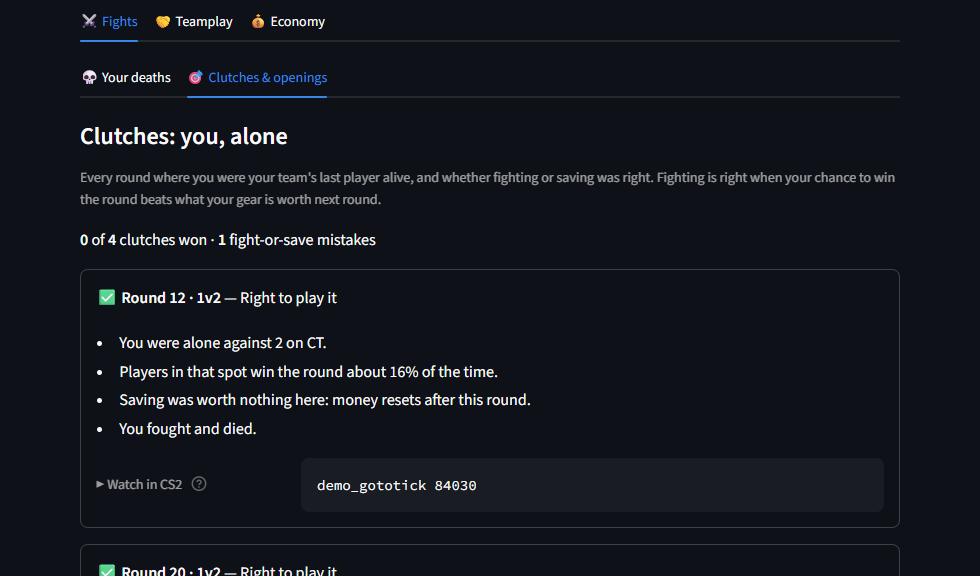
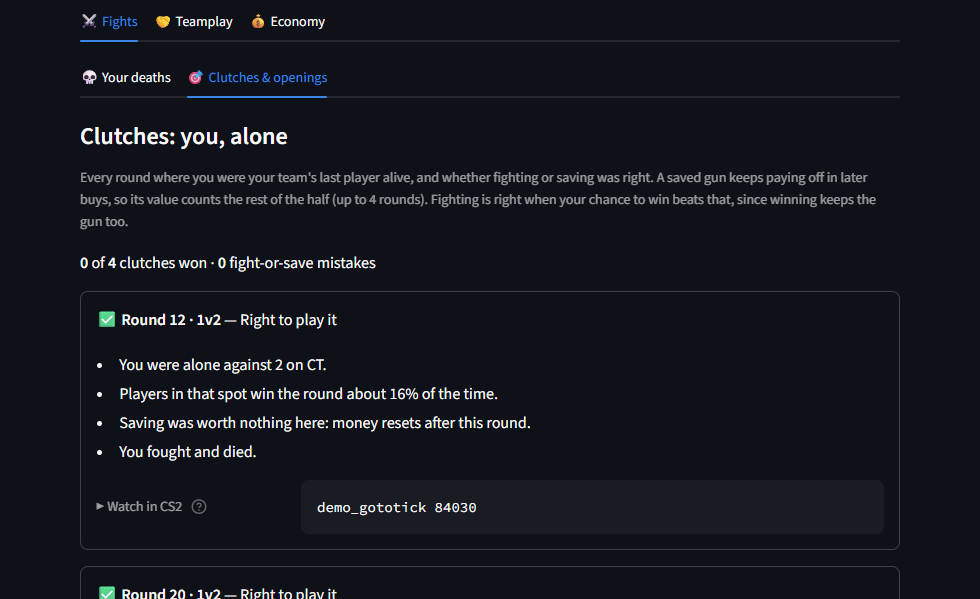
Value saved guns over the rest of the half, not just the next round
A saved gun keeps paying off: the money not spent replacing it carries
into later buys. The clutch verdict now simulates the economy up to 4
rounds ahead with and without the gun (grade.rounds_won_from) from both
teams' real money, and fighting is right when the win chance beats
S / (1 + S), since winning keeps the gun too. On the current pool,
"should have saved" rises from 61 to 99 clutches (mostly 1v3+), and
1v1/1v2 stay mostly "right to play it". Cards explain the threshold.
README and screenshots updated.

diff --git a/src/cs2_insights/fights.py b/src/cs2_insights/fights.py
@@ -263,16 +263,24 @@ def clutches(deaths: pd.DataFrame, player_rounds: pd.DataFrame, team_rounds: pd.
              slope: float | None = None) -> pd.DataFrame:
     """Every round where a player was their team's last one alive, with the outcome and a fight-or-save verdict.
 
-    Saving keeps your gear for next round; its value is the next round's win chance with that gear
-    minus without it (rates.equipment_win_rate on both teams' real next-round equipment).
+    A saved gun keeps paying off: the money not spent replacing it carries into later buys. So the
+    value of saving is the rounds the team is expected to win over the rest of the half (up to 4
+    rounds, grade.rounds_won_from) with the gun minus without it, starting from both teams' real
+    money next round. Fighting is right when your chance to win the round, which also keeps the
+    gun, beats that: p * (1 + S) > S, i.e. p > S / (1 + S).
     """
-    from cs2_insights.rates import DEFAULT_EQUIPMENT_SLOPE, equipment_win_rate
+    from cs2_insights.grade import LOOKAHEAD, Economy, rounds_won_from
+    from cs2_insights.rates import DEFAULT_EQUIPMENT_SLOPE
 
     slope = slope or DEFAULT_EQUIPMENT_SLOPE
-    columns = ["round", "tick", "player", "team", "side", "enemies", "plant_seconds", "outcome", "gear", "win_chance", "save_value", "verdict"]
+    columns = ["round", "tick", "player", "team", "side", "enemies", "plant_seconds", "outcome", "gear", "win_chance",
+               "save_value", "save_rounds", "verdict"]
     if deaths.empty:
         return pd.DataFrame(columns=columns)
     teams = team_rounds.set_index(["round", "team"])
+    from cs2_insights.grade import economy_states
+
+    states = economy_states(team_rounds).set_index(["round", "team"])
     equip = player_rounds.set_index(["round", "steamid"])["equip_value"].to_dict()
     rows = []
     for number, group in deaths.sort_values("tick").groupby("round"):
@@ -296,23 +304,34 @@ def clutches(deaths: pd.DataFrame, player_rounds: pd.DataFrame, team_rounds: pd.
             plant_seconds = getattr(d, "plant_seconds", None)  # missing on matches parsed before version 3
             p = clutch_win_chance(model, enemies, side, plant_seconds)
 
-            save_value = 0.0
+            save_value, save_rounds = 0.0, 0
             nxt, their_next = (number + 1, team), (number + 1, other)
-            if nxt in teams.index and their_next in teams.index and teams.at[nxt, "side"] == side:
-                players = max(int(teams.at[nxt, "players"]), 1)
-                mine, theirs = teams.at[nxt, "equip_value"] / players, teams.at[their_next, "equip_value"] / max(int(teams.at[their_next, "players"]), 1)
-                without = mine - gear / players if outcome == "Saved" else mine
-                save_value = equipment_win_rate(without + gear / players, theirs, slope) - equipment_win_rate(without, theirs, slope)
+            if nxt in states.index and their_next in states.index and teams.at[nxt, "side"] == side:
+                state, their_state = states.loc[nxt], states.loc[their_next]
+                mine, theirs = teams.loc[nxt], teams.loc[their_next]
+                # The real next round already includes the gun if it was saved; add or remove it for the other case.
+                carried = float(mine["start_equip_value"]) - (gear if outcome == "Saved" else 0)
+                team_next = {kept: Economy(float(state["start_money"]), carried + (gear if kept else 0), int(state["loss_counter"]), int(mine["players"]))
+                             for kept in (True, False)}
+                their_next_economy = Economy(float(their_state["start_money"]), float(theirs["start_equip_value"]),
+                                             int(their_state["loss_counter"]), int(theirs["players"]))
+                rounds_left = int(state["rounds_left_in_half"])
+                scores = (int(mine["score"]), int(mine["opponent_score"]))
+                value = {kept: rounds_won_from(slope, team_next[kept], their_next_economy, rounds_left, scores, number + 1 <= 24)
+                         for kept in (True, False)}
+                save_value, save_rounds = max(value[True] - value[False], 0.0), 1 + min(LOOKAHEAD, rounds_left)
 
+            # Fighting wins the round with chance p and keeps the gun if it does; saving keeps it for sure.
+            edge = p * (1 + save_value) - save_value
             if outcome == "Won":
                 verdict = CLUTCH_WON
             elif outcome == "Died":
-                verdict = CLUTCH_SHOULD_SAVE if p + CLUTCH_MARGIN < save_value else CLUTCH_PLAYED if p >= save_value else CLUTCH_CLOSE
+                verdict = CLUTCH_PLAYED if edge >= CLUTCH_MARGIN else CLUTCH_SHOULD_SAVE if edge <= -CLUTCH_MARGIN else CLUTCH_CLOSE
             else:
-                verdict = CLUTCH_SHOULD_PLAY if p > save_value + CLUTCH_MARGIN else CLUTCH_SAVED
+                verdict = CLUTCH_SHOULD_PLAY if edge >= CLUTCH_MARGIN else CLUTCH_SAVED
             rows.append({"round": int(number), "tick": int(d.tick), "player": player, "team": team, "side": side, "enemies": enemies,
                          "plant_seconds": plant_seconds, "outcome": outcome, "gear": gear, "win_chance": round(p, 3),
-                         "save_value": round(float(save_value), 3), "verdict": verdict})
+                         "save_value": round(float(save_value), 3), "save_rounds": save_rounds, "verdict": verdict})
     return pd.DataFrame(rows, columns=columns)
 
 

diff --git a/tests/test_fights.py b/tests/test_fights.py
@@ -126,20 +126,22 @@ def test_fit_recovers_trade_weights_and_falls_back_when_small():
     assert fit_fight_model(deaths, chances.iloc[:50], pd.DataFrame()) == FightModel()
 
 
-def _clutch_round(final_victim=None, a_won=False, next_equip=5_000):
-    """Round 1: team A loses a1-a4 one by one, leaving a5 against b1 and b2. Round 2: both teams buy."""
+def _clutch_round(final_victim=None, a_won=False, next_money=3_000, rounds=4):
+    """Round 1: team A loses a1-a4, leaving a5 alone against five. Later rounds of the same half follow.
+
+    Team A starts round 2 with `next_money` each in the bank; if a5 saved, his $4,700 rifle is carried in too.
+    """
     deaths = [_death(1, 100 + i, f"a{i}", "b1", team_alive=6 - i, enemies_alive=5) for i in range(1, 5)]
-    deaths.append(_death(1, 110, "b3", "a5", victim_team="B", team_alive=5, enemies_alive=1))
-    deaths.append(_death(1, 120, "b4", "a5", victim_team="B", team_alive=4, enemies_alive=1))
-    deaths.append(_death(1, 130, "b5", "a5", victim_team="B", team_alive=3, enemies_alive=1))
     if final_victim:
-        deaths.append(_death(1, 200, final_victim, "b1", team_alive=1, enemies_alive=2, victim_equip=4_700))
-    players = pd.DataFrame([{"round": r, "steamid": f"{t}{i}", "team": t, "equip_value": 4_700} for r in (1, 2) for t in "ab" for i in range(1, 6)])
-    players["team"] = players["team"].str.upper()
+        deaths.append(_death(1, 200, final_victim, "b1", team_alive=1, enemies_alive=5, victim_equip=4_700))
+    players = pd.DataFrame([{"round": r, "steamid": f"{t}{i}", "team": t.upper(), "equip_value": 4_700}
+                            for r in range(1, rounds + 1) for t in "ab" for i in range(1, 6)])
+    saved_gun = 4_700 if not final_victim and not a_won else 0
     team_rounds = pd.DataFrame([
-        {"round": r, "team": t, "side": "CT" if t == "A" else "T", "won": (a_won if t == "A" else not a_won),
-         "players": 5, "equip_value": next_equip * 5 if r == 2 and t == "A" else 25_000}
-        for r in (1, 2) for t in "AB"
+        {"round": r, "team": t, "side": "CT" if t == "A" else "T", "won": (a_won if t == "A" else not a_won) if r == 1 else t == "B",
+         "players": 5, "equip_value": 25_000, "bank": (next_money * 5 if t == "A" and r == 2 else 20_000), "cash_spent": 0,
+         "start_equip_value": (1_000 + saved_gun if t == "A" and r == 2 else 1_000), "score": 0, "opponent_score": r - 1 if t == "A" else 0}
+        for r in range(1, rounds + 1) for t in "AB"
     ])
     return pd.DataFrame(deaths), players, team_rounds
 
@@ -149,7 +151,8 @@ def test_clutch_is_found_with_outcome_and_verdict():
     assert won[["player", "enemies", "outcome", "verdict"]].values.tolist() == [["a5", 5, "Won", fights.CLUTCH_WON]]
     died = clutches(*_clutch_round(final_victim="a5"), MODEL).iloc[0]
     assert died["outcome"] == "Died" and died["gear"] == 4_700
-    assert died["save_value"] > 0  # round 2 is in the same half, so the rifle was worth something
+    assert died["save_value"] > 0 and died["save_rounds"] == 3  # rounds 2-4 are left in the half
+    assert died["verdict"] == fights.CLUTCH_SHOULD_SAVE  # 1v5: almost no chance, and the rifle was worth more
     saved = clutches(*_clutch_round(), MODEL).iloc[0]
     assert saved["outcome"] == "Saved" and saved["verdict"] in (fights.CLUTCH_SAVED, fights.CLUTCH_SHOULD_PLAY)
 
@@ -173,3 +176,14 @@ def test_opening_duels_are_the_first_kill_you_were_in():
     team_rounds = _team_rounds([1, 2, 3], [True, False, False])
     od = opening_duels(deaths, team_rounds, "me")
     assert od[["round", "won", "place", "side"]].values.tolist() == [[1, True, "Ramp", "CT"], [3, False, "Palace", "CT"]]
+
+
+def test_a_saved_gun_is_worth_more_when_the_team_is_poor():
+    rich = clutches(*_clutch_round(final_victim="a5", next_money=6_000), MODEL).iloc[0]["save_value"]
+    poor = clutches(*_clutch_round(final_victim="a5", next_money=2_500), MODEL).iloc[0]["save_value"]
+    assert poor > rich  # the rifle is what lets a poor team buy; a rich team buys anyway
+
+
+def test_saving_on_the_last_round_of_a_half_is_worth_nothing():
+    last = clutches(*_clutch_round(final_victim="a5", rounds=1), MODEL).iloc[0]
+    assert last["save_value"] == 0 and last["save_rounds"] == 0

diff --git a/src/cs2_insights/report.py b/src/cs2_insights/report.py
@@ -356,10 +356,16 @@ def clutch_reasons(clutch: pd.Series) -> list[str]:
         left = max(fights.BOMB_SECONDS - float(clutch["plant_seconds"]), 0)
         reasons.append(f"The bomb had been planted for {float(clutch['plant_seconds']):.0f}s: {left:.0f}s left on it.")
     reasons.append(f"Players in that spot win the round about {pct(clutch['win_chance'])} of the time.")
-    if clutch["save_value"] > 0:
-        reasons.append(f"Your ${int(clutch['gear']):,} of gear was worth about {clutch['save_value']:.2f} rounds next round.")
-    else:
+    if not clutch["save_rounds"]:
         reasons.append("Saving was worth nothing here: money resets after this round.")
+    elif clutch["save_value"] < 0.01:
+        reasons.append("Your team could buy the same next round with or without your gear, so keeping it changed little.")
+    else:
+        span = "next round" if clutch["save_rounds"] <= 1 else f"the next {int(clutch['save_rounds'])} rounds"
+        reasons.append(f"Keeping your ${int(clutch['gear']):,} of gear was worth about {clutch['save_value']:.2f} rounds over {span}: "
+                       "the money you don't spend replacing it carries into later buys.")
+        if clutch["outcome"] != "Won":
+            reasons.append(f"So fighting was worth it if you'd win more than {clutch['save_value'] / (1 + clutch['save_value']):.0%} of the time.")
     reasons.append({"Won": "You won it.", "Died": "You fought and died.", "Saved": "You hid and survived."}[clutch["outcome"]])
     return reasons
 

diff --git a/src/cs2_insights/grade.py b/src/cs2_insights/grade.py
@@ -109,6 +109,12 @@ def _play(slope: float, mine: Economy, theirs: Economy, my_buy: tuple, their_buy
     return total
 
 
+def rounds_won_from(slope: float, mine: Economy, theirs: Economy, rounds_left: int, scores: tuple[int, int],
+                    in_regulation: bool, depth: int = LOOKAHEAD) -> float:
+    """Expected rounds won from the start of a round, over it and up to `depth` more (stopping at half-time)."""
+    return _round(slope, mine, theirs, rounds_left, depth, scores, in_regulation)
+
+
 def _round(slope: float, mine: Economy, theirs: Economy, rounds_left: int, depth: int,
            scores: tuple[int, int], in_regulation: bool) -> float:
     """Expected rounds won from this round on, both teams playing the standard economy."""

diff --git a/app.py b/app.py
@@ -856,7 +856,8 @@ def render_clutches(report: Report) -> None:
     clutch = report.clutches
     st.markdown("#### Clutches: you, alone")
     st.caption("Every round where you were your team's last player alive, and whether fighting or saving was right. "
-               "Fighting is right when your chance to win the round beats what your gear is worth next round.")
+               "A saved gun keeps paying off in later buys, so its value counts the rest of the half (up to 4 rounds). "
+               "Fighting is right when your chance to win beats that, since winning keeps the gun too.")
     if clutch.empty:
         st.write("You were never your team's last player alive this match.")
     else:

diff --git a/README.md b/README.md
@@ -29,7 +29,7 @@ Real output from real matches. Player names are replaced with stand-ins.
 
 ![Utility tab](docs/screenshots/utility.png)
 
-**Clutches.** Every round you were last alive: was fighting or saving right, given your chance to win, the bomb timer and what your gear was worth next round?
+**Clutches.** Every round you were last alive: was fighting or saving right, given your chance to win, the bomb timer and what your gear was worth over the next few rounds?
 
 ![Clutches tab](docs/screenshots/clutches.png)
 
@@ -61,7 +61,7 @@ Real output from real matches. Player names are replaced with stand-ins.
 1. **Parse.** demoparser2 reads each round's money and equipment, every death, where every player stood and aimed at each death, every grenade and flash, and the bomb plant.
 2. **Round win chance.** Fitted to every stored round from players alive and whether the bomb is planted, so each death has a cost (`fights.py`).
 3. **Trade chance.** Fitted from how often players trade a teammate within 2 seconds, given their distance to the killer and how far their aim is from him. Only 12% of deaths in the current pool are traded that fast (`fights.py`).
-4. **Clutches.** When you're last alive, your chance to win the round (players alive, the bomb, and whether a CT still has time to defuse) is weighed against what your gear is worth in the next round (`fights.py`).
+4. **Clutches.** When you're last alive, your chance to win the round (players alive, the bomb, and whether a CT still has time to defuse) is weighed against what keeping your gear is worth over the rest of the half: the economy is simulated up to 4 rounds ahead with and without the gun, because a saved gun keeps paying off in later buys. Fighting is right when your win chance beats S / (1 + S), since winning keeps the gun too (`fights.py`).
 5. **Buy calls.** Each round where you could force but not full-buy is played forward up to four rounds with CS2's money rules, once for forcing and once for saving (`grade.py`).
 6. **Habits and progress.** Verdicts from all your matches are grouped by situation and ranked by rounds lost (`habits.py`), and tracked match by match (`progress.py`).
 
